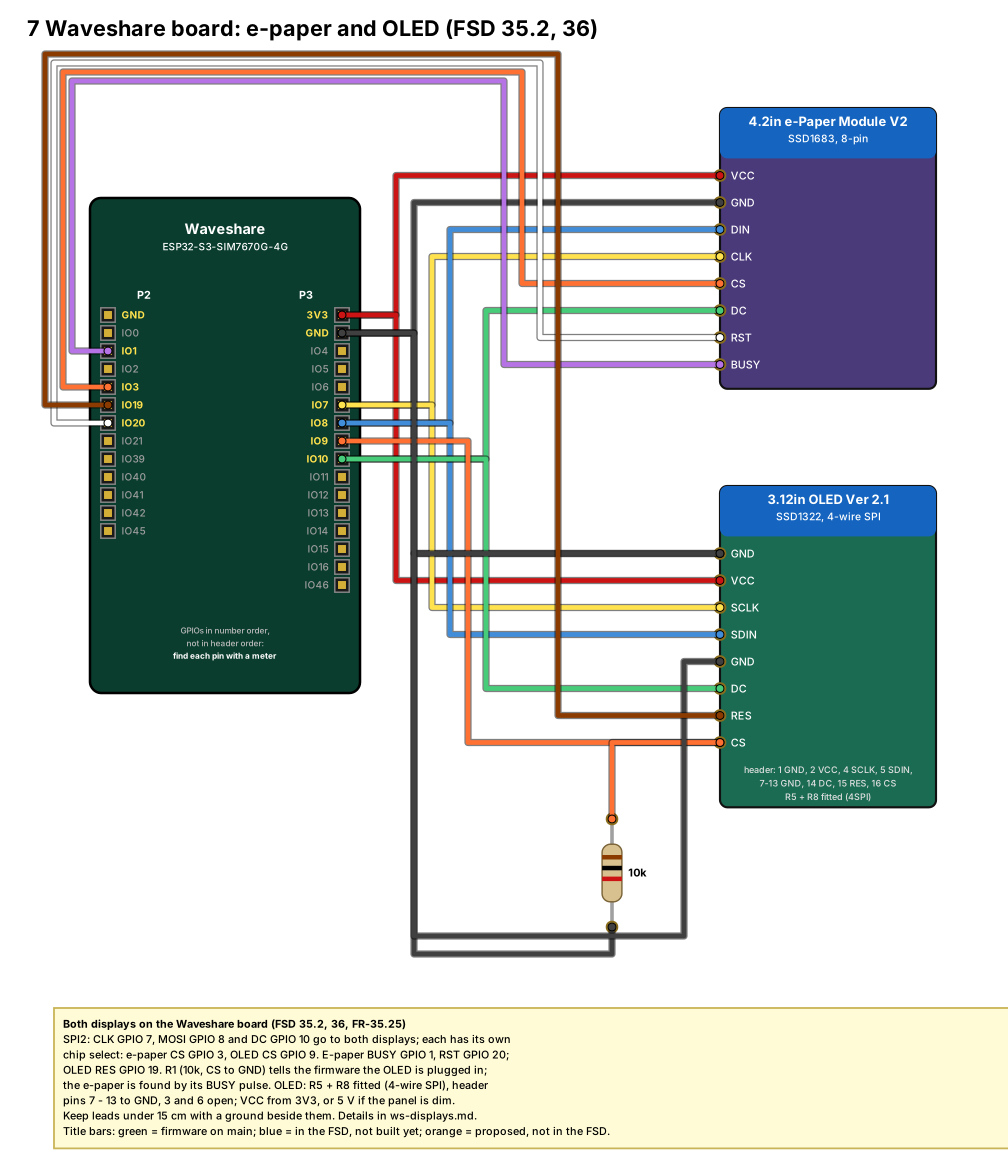
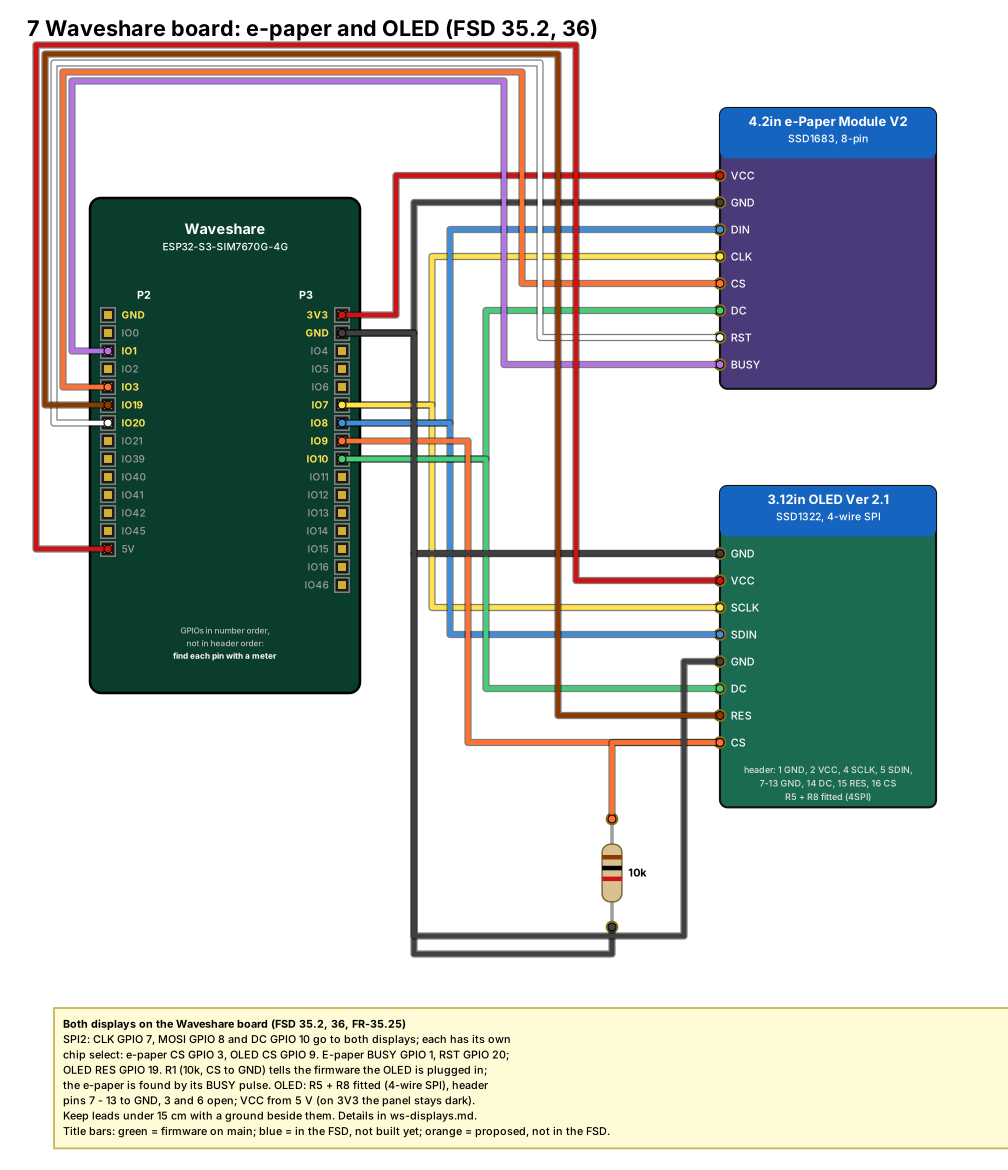
docs: the 3.12" OLED's VCC from 5 V
On 3.3 V the module's regulator left the panel dark; on 5 V the boot
screen shows (bench, SLOT2).

Claude-Session: https://claude.ai/code/session_014onQRhHCwQ9ZkutGJhUQdM

Changed region(s): [[0.0308, 0.0308, 0.5843, 0.5231], [0.369, 0.2462, 0.3998, 0.4923], [0.3075, 0.9231, 0.4613, 0.9538]]

diff --git a/docs/Method/project/wiring/make_wiring.py b/docs/Method/project/wiring/make_wiring.py
@@ -224,7 +224,7 @@ def board_part(used):
 # The Waveshare ESP32-S3-SIM7670G-4G (FSD 35.2): its two headers' GPIOs, listed in
 # number order, not in their physical order on the board.
 WS_P2 = ["GND", "IO0", "IO1", "IO2", "IO3", "IO19", "IO20", "IO21", "IO39", "IO40",
-         "IO41", "IO42", "IO45"]
+         "IO41", "IO42", "IO45", "5V"]
 WS_P3 = ["3V3", "GND R", "IO4", "IO5", "IO6", "IO7", "IO8", "IO9", "IO10", "IO11",
          "IO12", "IO13", "IO14", "IO15", "IO16", "IO46"]
 
@@ -1019,7 +1019,8 @@ def sheet_ws_displays(S):
                              ("IO8", "DIN", "SDIN", "blue", 2500),
                              ("IO10", "DC", "DC", "green", 2700)):
         S.wire((B, bp), (EP, ep), c, ("x", x))
-        S.wire((B, bp), (OL, op), c, ("x", x))
+        if op != "VCC":  # the OLED's VCC comes from 5 V, below
+            S.wire((B, bp), (OL, op), c, ("x", x))
     # the OLED's chip select, and the 10k that marks it plugged in (FR-35.25)
     S.wire((B, "IO9"), (OL, "CS"), "orange", ("x", 2600))
     S.wire((OL, "CS"), ("R1", "1"), "orange", ("x", 3400))
@@ -1030,7 +1031,8 @@ def sheet_ws_displays(S):
     for bp, part, pin, c, lane, top, x in (("IO1", EP, "BUSY", "purple", 400, 450, 2800),
                                            ("IO3", EP, "CS", "orange", 350, 400, 2900),
                                            ("IO20", EP, "RST", "white", 300, 350, 3000),
-                                           ("IO19", OL, "RES", "brown", 250, 300, 3100)):
+                                           ("IO19", OL, "RES", "brown", 250, 300, 3100),
+                                           ("5V", OL, "VCC", "red", 200, 250, 3200)):
         S.wire((B, bp), (part, pin), c, ("x", lane), ("y", top), ("x", x))
     S.note(300, 5600, 6200, [
         "# Both displays on the Waveshare board (FSD 35.2, 36, FR-35.25)",
@@ -1038,7 +1040,7 @@ def sheet_ws_displays(S):
         "chip select: e-paper CS GPIO 3, OLED CS GPIO 9. E-paper BUSY GPIO 1, RST GPIO 20;",
         "OLED RES GPIO 19. R1 (10k, CS to GND) tells the firmware the OLED is plugged in;",
         "the e-paper is found by its BUSY pulse. OLED: R5 + R8 fitted (4-wire SPI), header",
-        "pins 7 - 13 to GND, 3 and 6 open; VCC from 3V3, or 5 V if the panel is dim.",
+        "pins 7 - 13 to GND, 3 and 6 open; VCC from 5 V (on 3V3 the panel stays dark).",
         "Keep leads under 15 cm with a ground beside them. Details in ws-displays.md.",
         LEGEND,
     ])

diff --git a/docs/Functionality/TDisplay-S3-Webserver-FSD.md b/docs/Functionality/TDisplay-S3-Webserver-FSD.md
@@ -3574,7 +3574,7 @@ The board facts below are read from Waveshare's V2 schematic
 | RS232 | MAX3232 powered from GPIO 11, TX GPIO 46 (a strapping pin, driven only as an output, with the transceiver unpowered at reset), RX GPIO 2, on UART 2 because the modem holds UART 1 | [user] |
 | Water probe | Switch line GPIO 14 | [user] |
 | E-paper (optional, §36) | Waveshare's 4.2" e-Paper Module (V2, Rev 2.2): 400 × 300 black and white, an SSD1683 controller (the CrowPanel's controller, `docs/Method/project/crowpanel-epaper.md`), 3.3 V, 4-wire SPI on SPI2 shared with the OLED: VCC 3.3 V, GND, CLK GPIO 7, DIN GPIO 8, DC GPIO 10, CS GPIO 3, BUSY GPIO 1 (high while the controller works; the internal pull-down holds it low with no panel, FR-35.25), RST GPIO 20 [proposed]. GPIO 20 is the ESP32-S3's USB D+, free with the USB switch on, so the build turns its USB-Serial/JTAG console off | [user]; RST [proposed]; the console [derived] |
-| OLED | A 3.12" 256 × 64 SSD1322 module (16 grey levels, e.g. Newhaven NHD-3.12-25664), 4-wire SPI on SPI2: SCK GPIO 7, MOSI GPIO 8, CS GPIO 9, DC GPIO 10, RES GPIO 19 [proposed]; a 10 kΩ resistor from CS to GND on the OLED's lead marks it plugged in (FR-35.25) [proposed]. The 3.12" OLED Ver 2.1 module the user owns ships set for 8080 parallel and shows no reset RC: for 4-wire SPI its R6 link moves to R5 (R5 and R8 fitted), and its unused parallel inputs go to GND (`docs/Method/project/ws-displays.md`) | [user]; RES [proposed]; the module [derived from the board] |
+| OLED | A 3.12" 256 × 64 SSD1322 module (16 grey levels, e.g. Newhaven NHD-3.12-25664), 4-wire SPI on SPI2: SCK GPIO 7, MOSI GPIO 8, CS GPIO 9, DC GPIO 10, RES GPIO 19 [proposed]; a 10 kΩ resistor from CS to GND on the OLED's lead marks it plugged in (FR-35.25) [proposed]. The 3.12" OLED Ver 2.1 module the user owns ships set for 8080 parallel and shows no reset RC: for 4-wire SPI its R6 link moves to R5 (R5 and R8 fitted), and its unused parallel inputs go to GND, and its VCC comes from the board's 5 V (on 3.3 V the module's regulator leaves the panel dark) (`docs/Method/project/ws-displays.md`) | [user]; RES [proposed]; the module [derived from the board]; 5 V [derived from the bench] |
 | Qwiic | The board has no Qwiic socket. The sensor bus (header P3: GPIO 15/16, 3.3 V, GND) goes by a made-up lead to a Qwiic star adapter (e.g. SparkFun Qwiic MultiPort), into which the BME280, on a Qwiic breakout, plugs; the lead is checked with a meter before first power-up (black on GND, red on 3.3 V, blue on GPIO 15, yellow on GPIO 16). Beside the header's 4.7 kΩ pull-ups, at most one board's stay in and the others' are cut, so the bus's pull-ups stay at or above about 2.2 kΩ. The loop (5 pins: GND, VSYS, GPIO 42, 39, 41), the water probe (6 pins: GND, VSYS, 3V3, GPIO 15, 16, 14) and RS232 (4 pins: GND, GPIO 11, 46, 2) keep JST-XH sockets as in §2.2; the OLED and the off-board key are not I2C and have their own connectors | [user]; pins [proposed] |
 | Off-board key | A momentary, normally open, illuminated push button on a cable of at most 3 m: the key on GPIO 12 (an RTC GPIO), active low, a 10 kΩ pull-up to 3.3 V, 1 kΩ in series and 100 nF to GND at the board end and a TVS diode on the line; its LED on GPIO 13 through a resistor | [user] |
 | BOOT key | GPIO 0 on the board, as §18 | [derived from the board] |

diff --git a/docs/Method/project/ws-displays.md b/docs/Method/project/ws-displays.md
@@ -16,7 +16,8 @@ select, so only the one being drawn to listens.
 
 | Board pin | Signal | E-paper (8-pin), cable colour | OLED (2 × 8 header) |
 |-----------|--------|-------------------------------|---------------------|
-| 3V3 | Supply | VCC, grey | VCC, pin 2 (see [Supply](#supply)) |
+| 3V3 | Supply | VCC, grey | — |
+| 5 V | OLED supply | — | VCC, pin 2 (see [Supply](#supply)) |
 | GND | Ground | GND, brown | GND, pin 1 |
 | GPIO 7 | SPI2 clock | CLK, yellow | D0/SCLK, pin 4 |
 | GPIO 8 | SPI2 data | DIN, blue | D1/SDIN, pin 5 |
@@ -113,7 +114,7 @@ order:
 | Pin | Signal | In 4-wire SPI |
 |-----|--------|---------------|
 | 1 | GND | GND |
-| 2 | VCC | 3V3, or 5 V (see [Supply](#supply)) |
+| 2 | VCC | 5 V (see [Supply](#supply)) |
 | 3 | NC | open |
 | 4 | D0/SCLK | GPIO 7 |
 | 5 | D1/SDIN | GPIO 8 |
@@ -139,9 +140,9 @@ join the I2C buses.
 
 ### Supply
 
-The module's own regulator (U1) has almost no headroom with 3.3 V on VCC. If the
-panel is dim or unstable on 3V3, VCC goes to the board's 5 V instead; the logic
-lines stay at 3.3 V either way. The OLED draws about 20 to 100 mA, depending on
+The module's VCC comes from the board's 5 V. Its own regulator (U1) has no
+headroom with 3.3 V on VCC, and the panel stays dark there. The logic lines stay
+at 3.3 V. The OLED draws about 20 to 100 mA, depending on
 how much of the screen is lit. The e-paper draws a few mA, and only while it
 refreshes.
 
